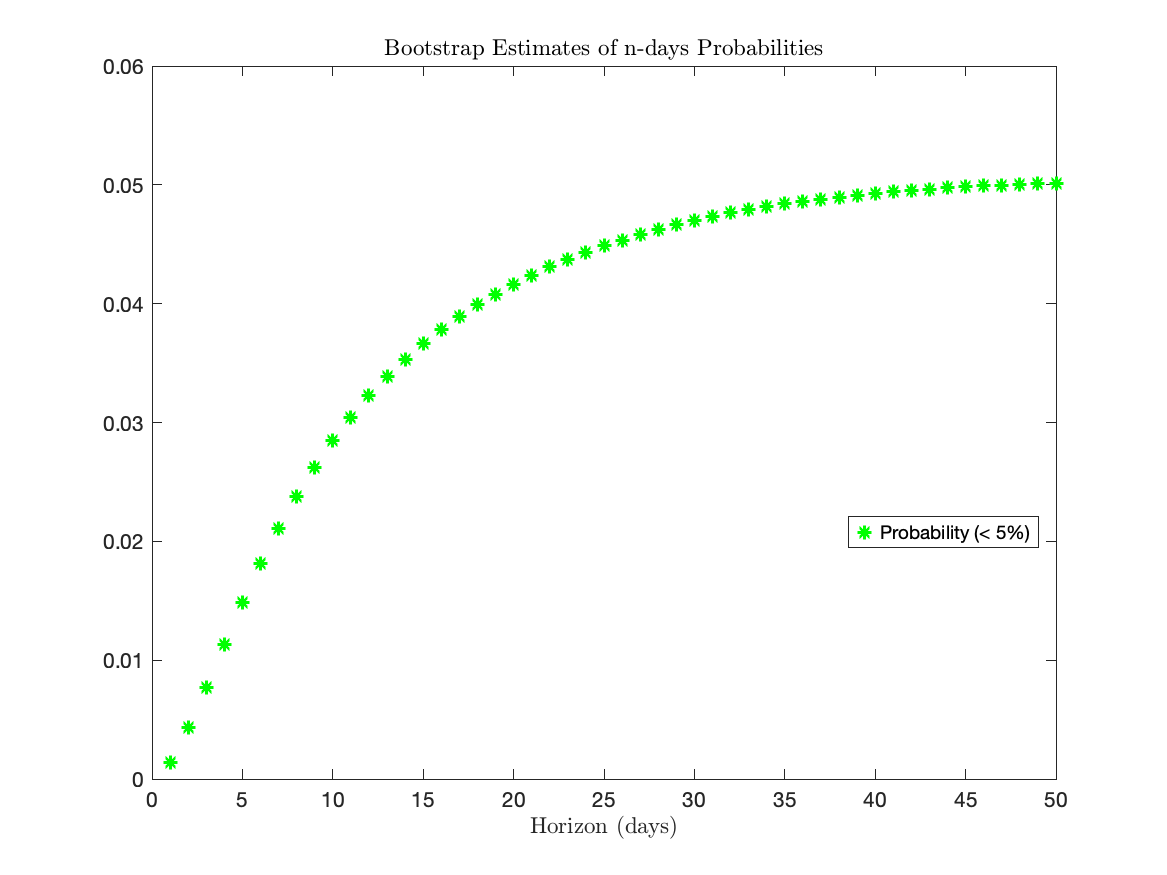
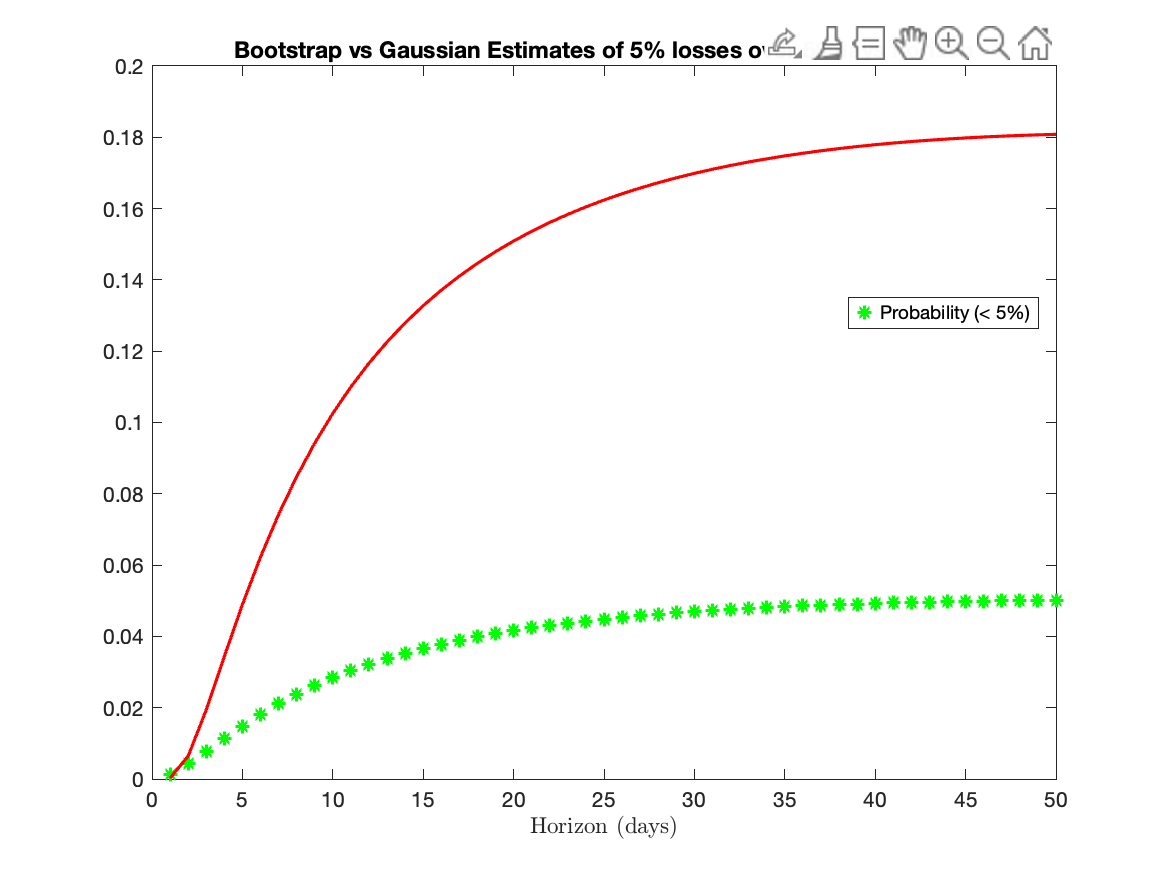
Refactored the code in order to make it easier to read

diff --git a/q5.m b/q5.m
@@ -1,114 +1,98 @@
 clear; close all; clc;
 
-%**************************************************%
-%%%%%%%% BOTTOM-UP APPROACH TO PORTFOLIO RISK %%%%%%
-%%%%%%%% BOOTSTRAP SIMULATION N-PERIODS     %%%%%%%%%
-%**************************************************%
+%% 1) Load Data and Define Market Parameters
+% Define file and folder names for inputs and outputs
+dataFile = 'datasets/Prices.xlsx'; % Excel file with historical asset prices
+marketName = 'Top 6 Tech Stocks';  % Market name (for display or labeling purposes)
+figuresDir = 'Images/';            % Directory to save generated figures
+resultsDir = 'Results/';           % Directory to save any result files
 
-%% ============================
-%  Load Data and Define Market
-% ============================
-dataDir = 'datasets/Prices.xlsx'; % Directory for loading the dataset
-marketName = 'Top 6 Tech Stocks'; % Market name
-imgDir = 'Images/'; % Directory for saving figures
-txtDir = 'Results/'; % Directory for saving results
-txtFilename = fullfile(txtDir, 'Bootstrap_Multiperiod.txt'); % Output file for results
+% Create output directories if they do not exist
+if ~exist(figuresDir, 'dir'), mkdir(figuresDir); end
+if ~exist(resultsDir, 'dir'), mkdir(resultsDir); end
 
-% Ensure directories exist
-if ~exist(imgDir, 'dir'), mkdir(imgDir); end
-if ~exist(txtDir, 'dir'), mkdir(txtDir); end
+% Read the dataset; omit rows with missing values
+dataTable = readtable(dataFile, 'MissingRule', 'omitrow');
 
-% Load dataset
-dataset = readtable(dataDir, 'MissingRule', 'omitrow'); % Read data
-colLabels = dataset.Properties.VariableNames; % Column labels
-tickers = colLabels(2:end); % Extract tickers (asset names)
+% Extract variable names and separate dates from asset prices
+variableNames = dataTable.Properties.VariableNames;
+assetTickers = variableNames(2:end); % Assume first column holds dates
+prices = dataTable{:, 2:end}; % Historical asset prices
+prices = flipud(prices); % Flip to ensure chronological order
 
-histPrices = dataset{:, 2:end}; % Historical prices
-histPrices = flipud(histPrices);
+dates = dataTable{:, 1}; % Historical dates
+dates = flipud(dates);
 
-histDates = dataset{:, 1}; % Historical dates
-histDates = flipud(histDates);
+% Get the number of observations and assets
+[numObs, numAssets] = size(prices);
 
-[NObs, NAsset] = size(histPrices); % Number of observations and assets
+% Compute asset log-returns using MATLAB's price2ret function
+assetLogReturns = price2ret(prices); % Each column corresponds to an asset
+numPeriods = size(assetLogReturns, 1); % Number of return periods
 
-timeAxis = histDates(2:end);
+% Define an equally weighted portfolio
+portfolioWeights = ones(numAssets, 1) / numAssets;
+portfolioLogReturns = assetLogReturns * portfolioWeights; % Portfolio log-returns
 
-% Compute Asset Log-Returns
-logRet = price2ret(histPrices);
-T = size(logRet, 1); % Number of time periods
+%% 2) Bootstrap Simulation for Multi-Day Cumulative Returns
+% Set simulation parameters
+horizonDays = 50; % Time horizon for risk estimation (in days)
+numBootstrap = 10000; % Number of bootstrap iterations
 
-weights = ones(NAsset, 1)/NAsset; % Equally weighted portfolio
-portLogRet = logRet * weights; % Portfolio log-returns
+% Preallocate matrix for storing bootstrap probability estimates
+bootstrapProb = zeros(numBootstrap, horizonDays); % Bootstrap probability estimates
 
-%%%%%%%%%%%%%%%%%%%%%%%%%%%%%%%%%%%
-%%%% Bootstrap Estimates for N-Days
-%%%%%%%%%%%%%%%%%%%%%%%%%%%%%%%%%%%
-Ndays = 50; % VaR horizon (in days)
-Nb = 10000; % Number of bootstrap samples
+% Define the loss threshold using continuous compounding.
+% A 5% loss corresponds to log(0.95) (≈ -0.0513)
+lossThreshold = log(0.95);
 
-% Preallocate arrays for bootstrap results
-VaRNdays = zeros(Nb, Ndays); % Bootstrap VaR values for each horizon
-ESNdays = zeros(Nb, Ndays); % Bootstrap ES values for each horizon
-ProbNdays = zeros(Nb, Ndays); % Bootstrap Prob values for each horizon
-
-% Repeat Bootstrap simulations
-for i = 1:Nb
-    % Simulate T x Ndays cumulative returns
-    U = randi(T, T, Ndays); % Random indices for bootstrapping
-    simLogRetT = cumsum(portLogRet(U), 2); % Cumulative returns for each horizon
+% Run bootstrap simulations
+for i = 1:numBootstrap
+    % Generate random indices for simulating return paths
+    % Each column represents a simulated path over 'horizonDays' using 'numPeriods' available returns
+    randomIndices = randi(numPeriods, numPeriods, horizonDays);
     
-    % Compute the probability of losing more than 5% at different horizons
-    for nday = 1:Ndays
-        ProbNdays(i, nday) = nnz(simLogRetT(:, nday) < -0.05)/Nb;
+    % Simulate cumulative portfolio log-returns along each bootstrap path.
+    % For each simulated path (each row), compute the cumulative sum over days.
+    simulatedCumulativeReturns = cumsum(portfolioLogReturns(randomIndices), 2);
+    
+    % For each day in the horizon, compute the proportion of simulated paths 
+    % where the cumulative return falls below the loss threshold.
+    % Note: Divide by the number of simulated paths (numPeriods) per bootstrap iteration.
+    for day = 1:horizonDays
+        bootstrapProb(i, day) = nnz(simulatedCumulativeReturns(:, day) < lossThreshold) / numPeriods;
     end
 end
 
-% Bootstrap probabilities
-ProbBdays = mean(ProbNdays);
+% Average the bootstrap probability estimates over all bootstrap iterations
+avgBootstrapProbability = mean(bootstrapProb);
 
-
-%% 3) Gaussian (Normal) theoretical probability
-% If daily log-returns ~ Normal(mu, sig^2), then
-% the sum of h daily log-returns ~ Normal(h*mu, h*sig^2).
-% The h-day *approx* percentage return is exp(sum) - 1,
-% but to see if that is < -0.05, we check sum < log(0.95).
+%% 3) Gaussian Theoretical Probability Estimate
+% Under the assumption that daily portfolio log-returns are normally distributed,
+% the sum of 'h' independent log-returns is normally distributed with:
+%    Mean = h * (daily mean)
+%    Std  = sqrt(h) * (daily standard deviation)
 %
-% So we want P[SumLogRet < log(0.95)] = 
-%   CDF_{Normal(h*mu, sqrt(h)*sig)}(log(0.95)).
+% Therefore, the probability that the h-day cumulative return is below the
+% loss threshold is given by the normal CDF:
+%    P[Sum < lossThreshold] = normcdf((lossThreshold - h*mu) / (sqrt(h)*sigma))
+dailyMean = mean(portfolioLogReturns);
+dailyStd = std(portfolioLogReturns);
+daysVector = 1:horizonDays; % Vector of day horizons
+gaussianProbability = normcdf((lossThreshold - daysVector * dailyMean) ./ (sqrt(daysVector) * dailyStd));
 
-% Basic stats
-mu  = mean(portLogRet);   % mean of daily log-returns
-sig = std(portLogRet);    % std of daily log-returns
-N   = length(portLogRet); % number of daily returns
+%% 4) Plot and Save the Comparison of Bootstrap and Gaussian Estimates
+figureHandle = figure('Color', [1 1 1]);
+plot(1:horizonDays, avgBootstrapProbability, 'g-', 'LineWidth', 1.5); % Bootstrap estimates (green stars)
+hold on;
+plot(1:horizonDays, gaussianProbability, 'r-', 'LineWidth', 1.5); % Gaussian estimates (red line)
 
-probNormal = zeros(Ndays,1);
-threshold  = log(0.95);  % log(1 - 0.05)
+% Label the plot using LaTeX interpreter for consistency
+xlabel('Time Horizon (Days)', 'Interpreter', 'latex');
+ylabel('Probability of >5\% Loss', 'Interpreter', 'latex');
+title('Comparison of Bootstrap and Gaussian Estimates for $>$5\% Loss Over 50-Day Horizon', 'Interpreter', 'latex');
+legend('Bootstrap Estimate', 'Gaussian Estimate', 'Location', 'best', 'Interpreter', 'latex');
+grid on;
 
-for h = 1:Ndays
-    meanH  = h * mu;
-    stdH   = sqrt(h) * sig;
-    % Probability that sum of log-returns < log(0.95)
-    probNormal(h) = normcdf(threshold, meanH, stdH);
-end
-
-% This is the second solution
-
-PortMean = mean(portLogRet);
-PortStd = std(portLogRet);
-ndays = 1:50; % Time horizons from 1 to 50 days
-
-% Probability of losing more than 5% using Gaussian assumption
-prob_gaus = normcdf((threshold - ndays * PortMean) ./ (sqrt(ndays) * PortStd));
-
-
-%% ============================
-%  Plot Bootstrap Results
-% ============================
-% Plot Prob over the horizon
-h1 = figure('Color', [1 1 1]);
-plot(1:Ndays, ProbBdays, 'g*', 'LineWidth', 1.5); % Prob estimates
-
-xlabel('Horizon (days)', 'Interpreter', 'latex');
-title('Bootstrap Estimates of n-days Probabilities', 'Interpreter', 'latex');
-legend('Probability (< 5%)', 'Location', 'best', 'Interpreter', 'latex');
-saveas(h1, fullfile(imgDir, 'Q5_Prob_ndays.png'));
+% Save the figure to the specified directory
+saveas(figureHandle, fullfile(figuresDir, 'Bootstrap_vs_Gaussian_Probability.png'));
